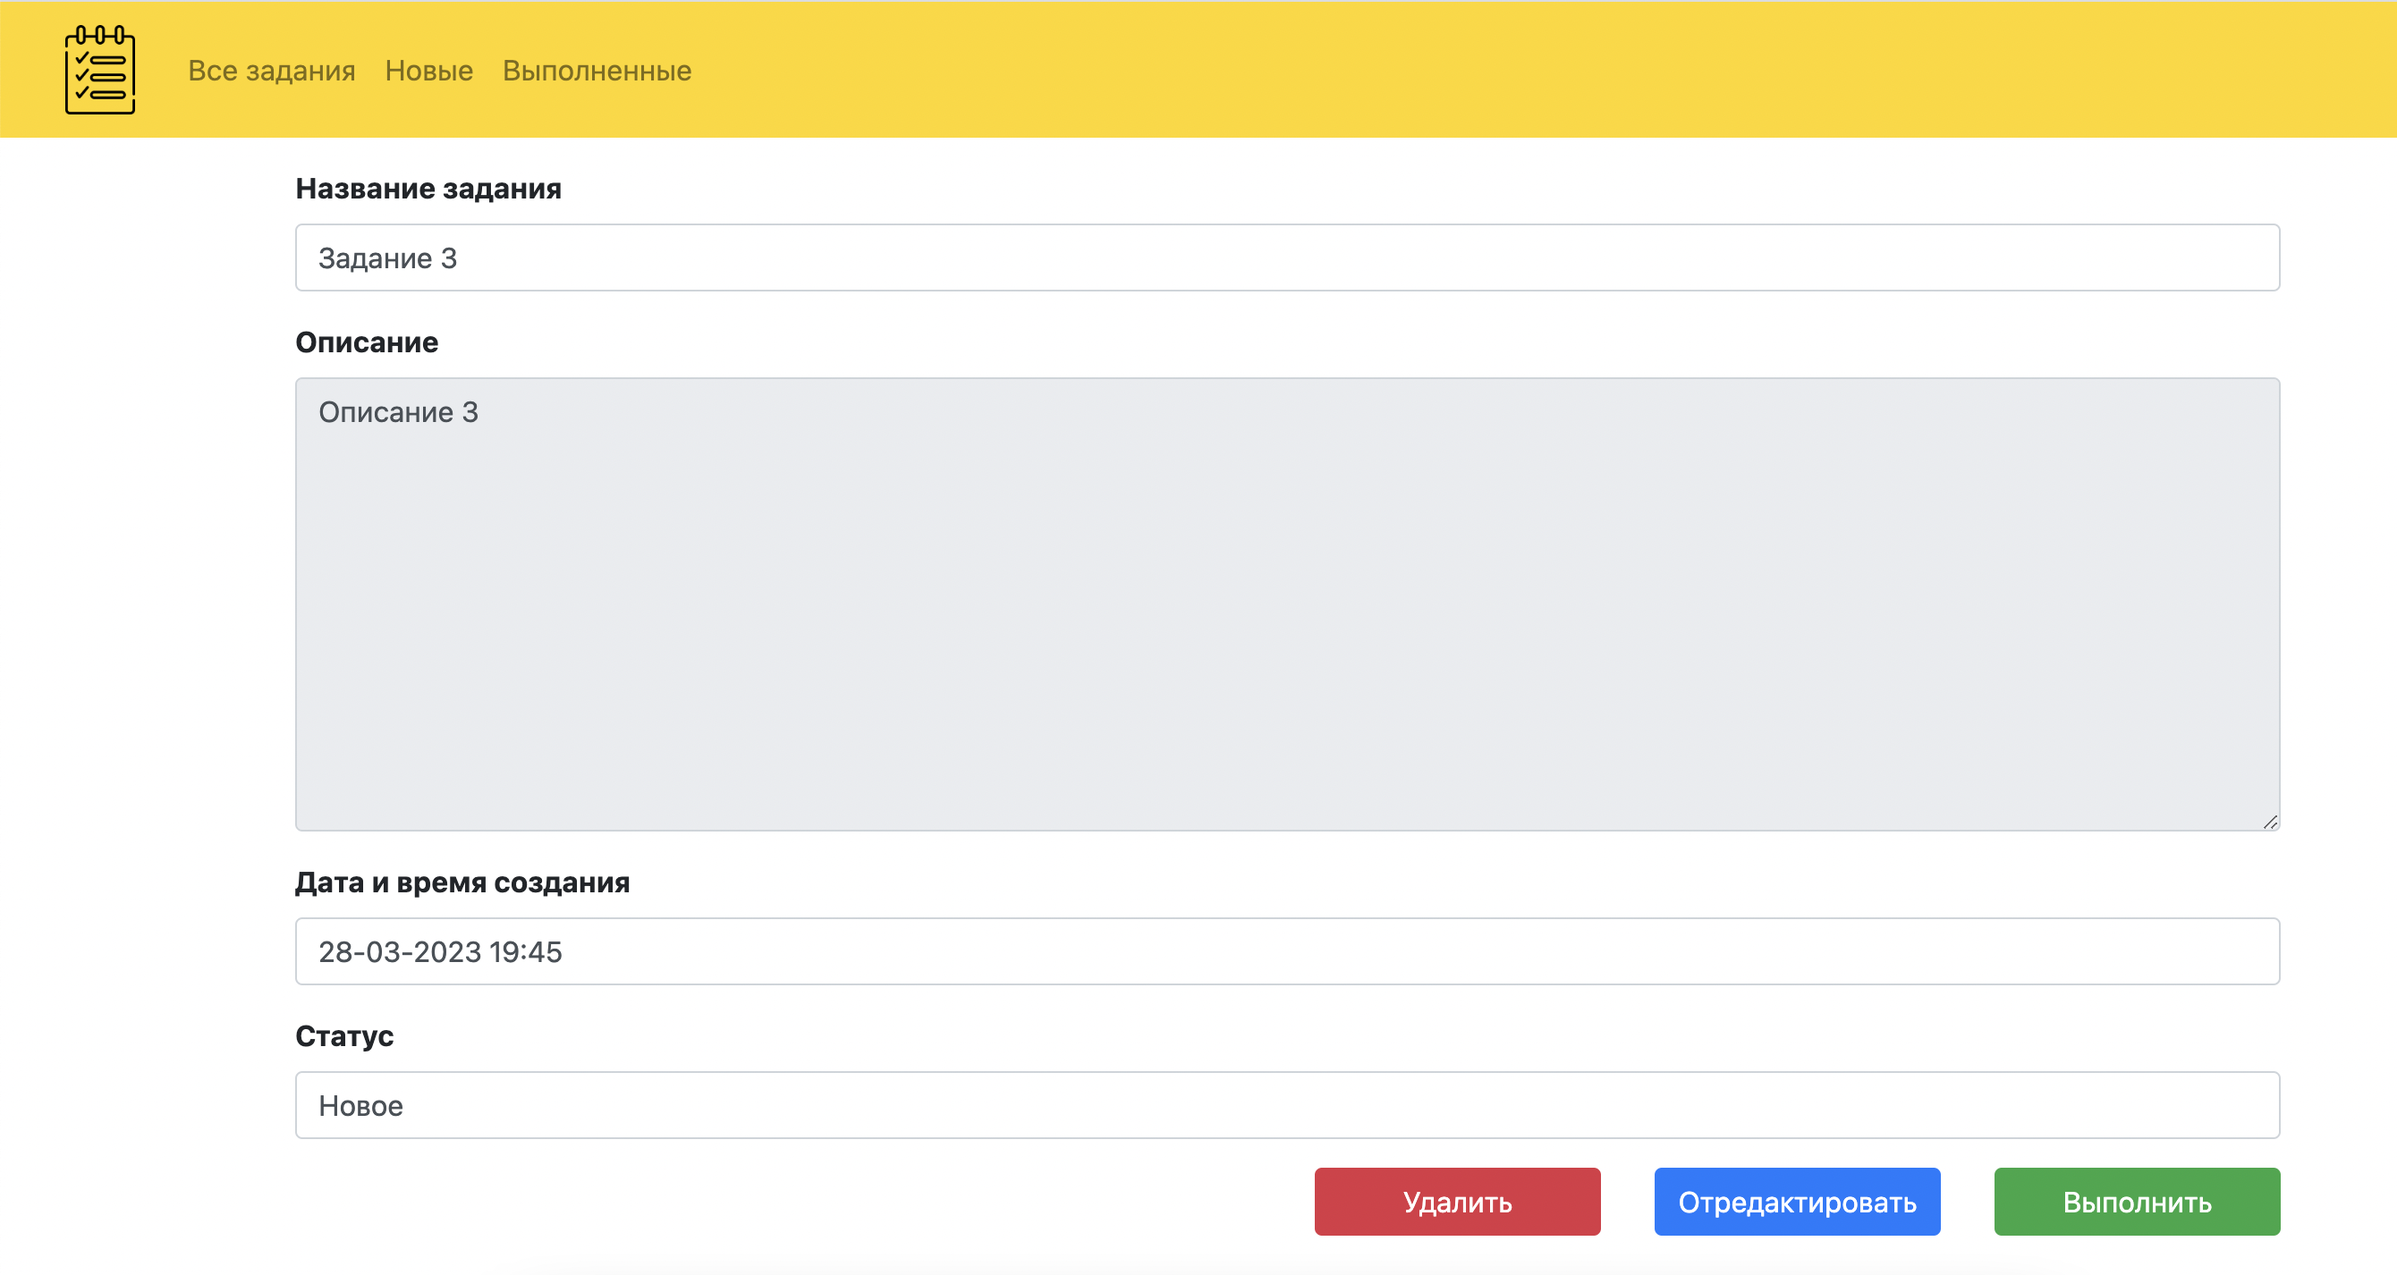
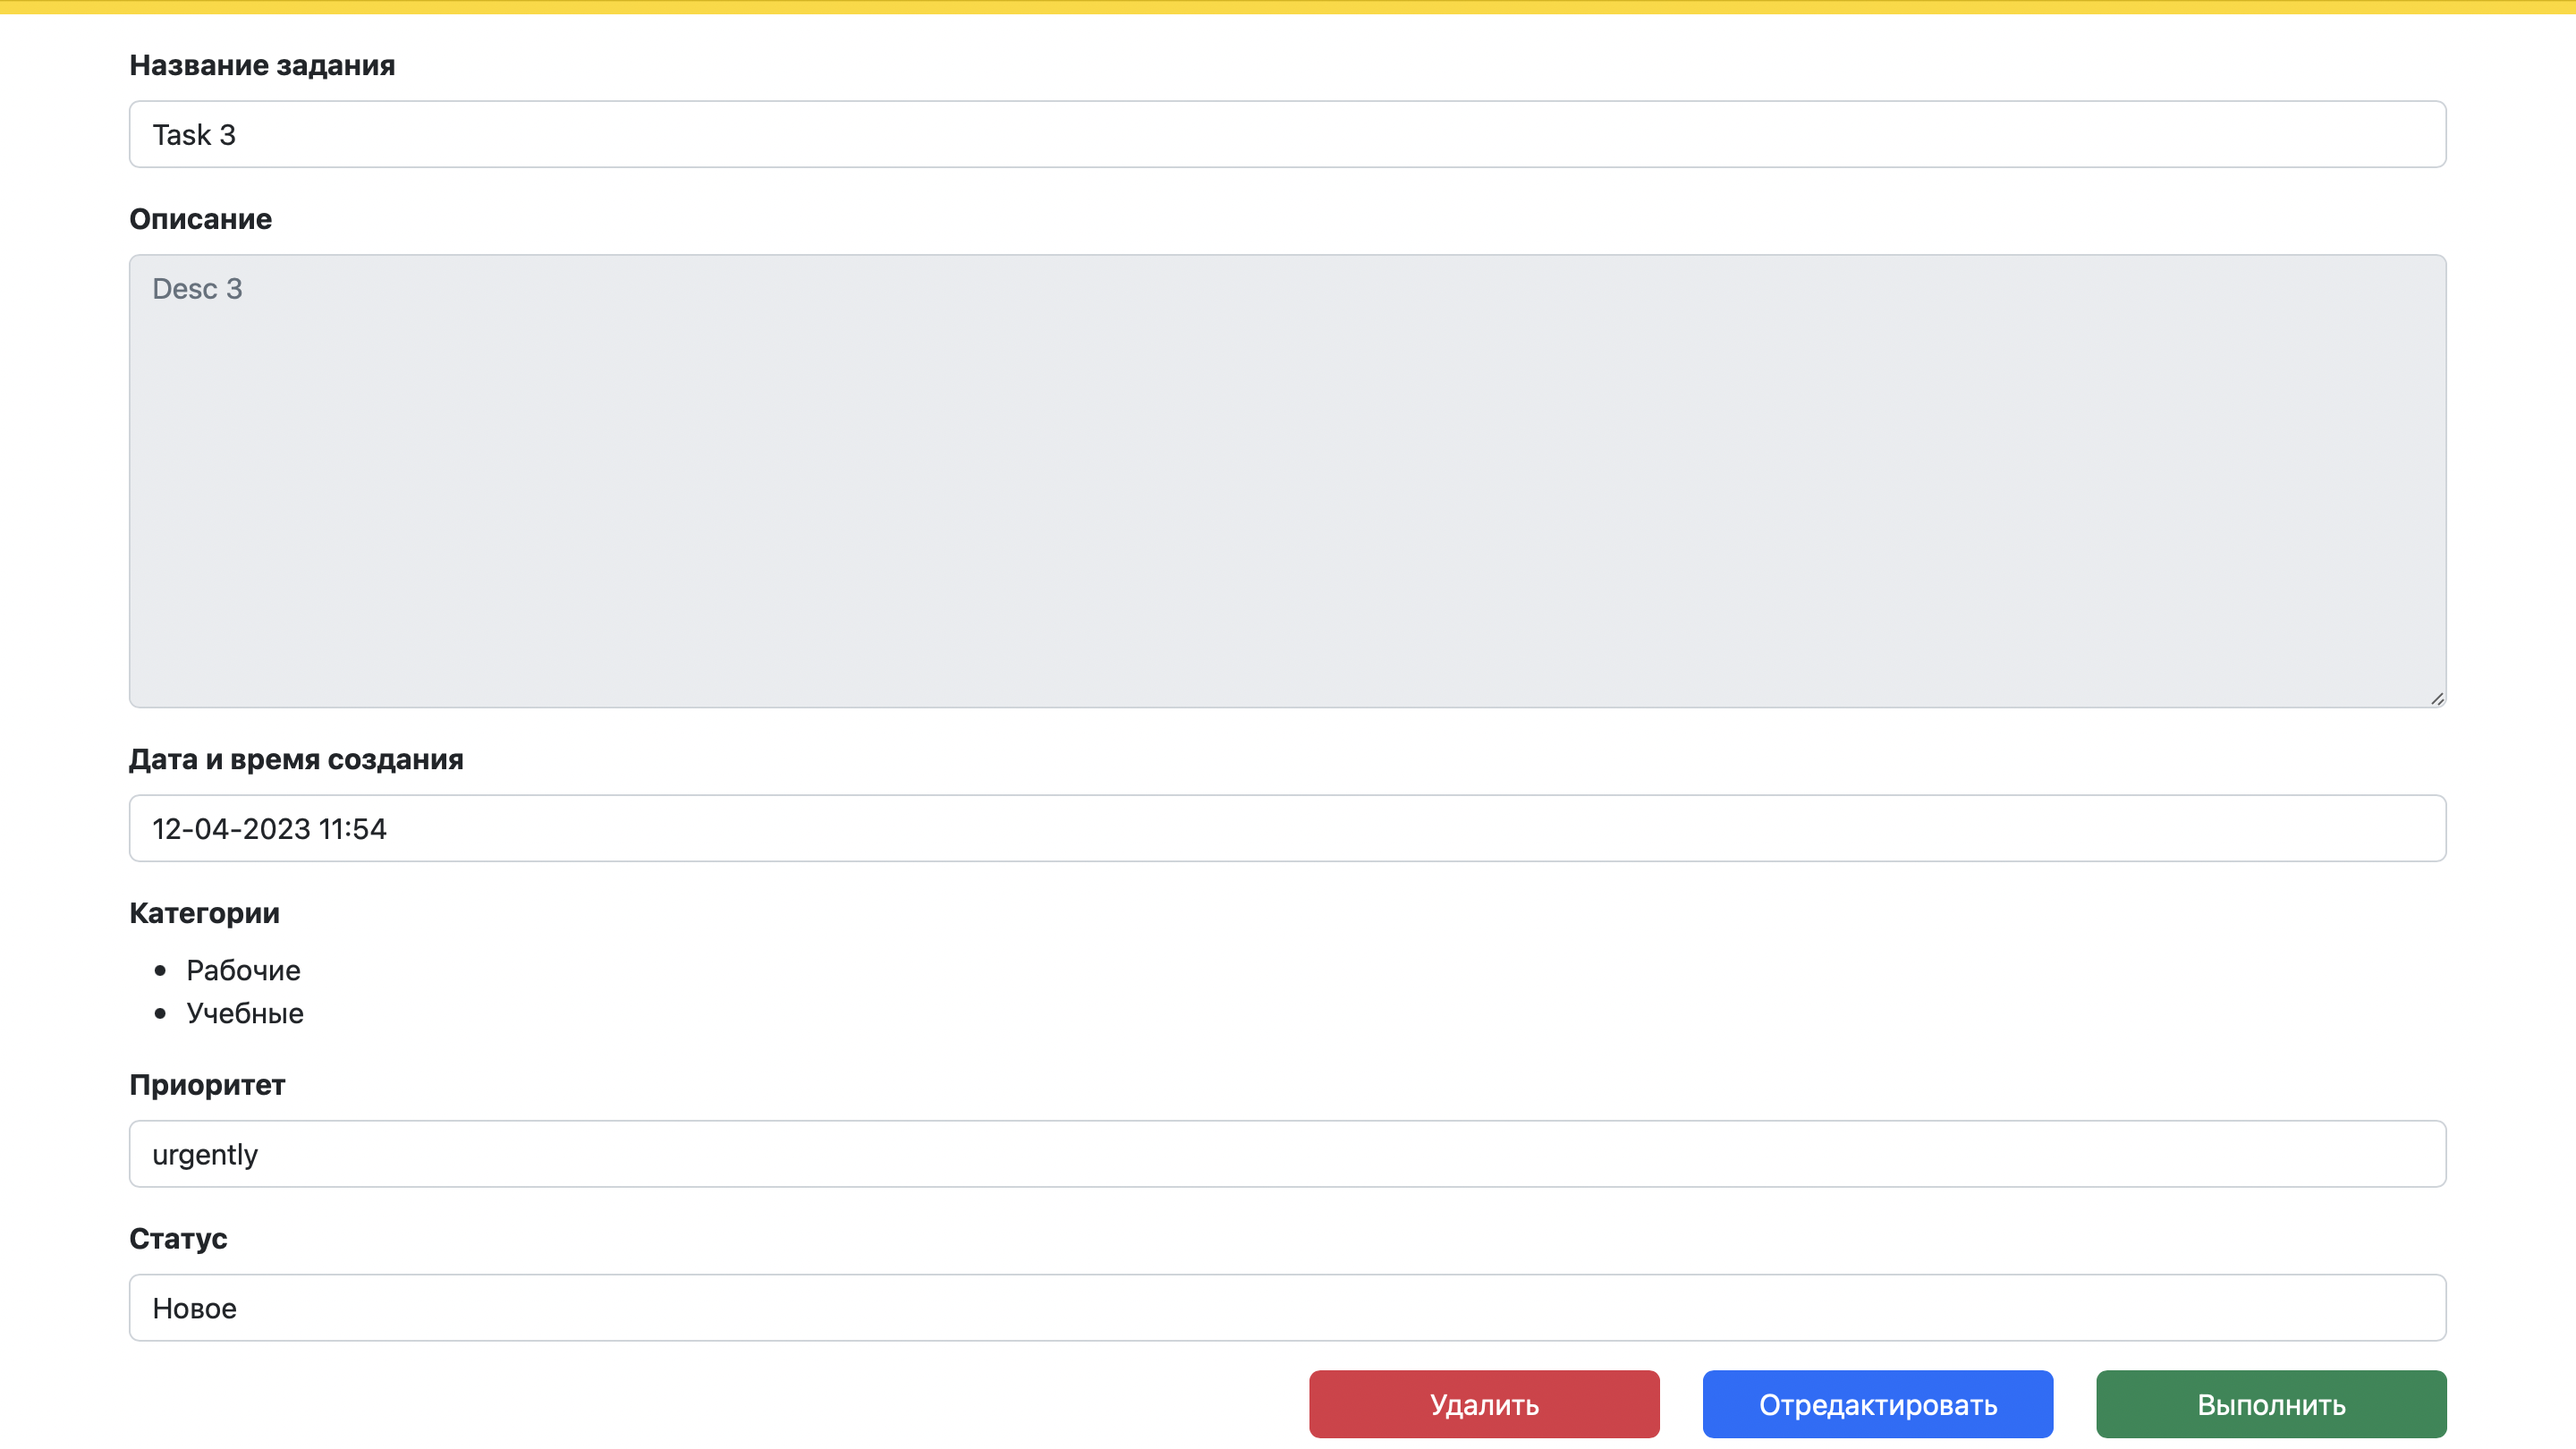
5. Date [#331992]

diff --git a/src/main/resources/templates/users/register.html b/src/main/resources/templates/users/register.html
@@ -54,6 +54,12 @@
                 <label for="password" class="form-label"><b>Пароль</b></label>
                 <input type="password" class="form-control" id="password" name="password" required>
             </div>
+            <div class="mb-3">
+                <label for="zoneId" class="form-label"><b>Часовой пояс</b></label>
+                <select id="zoneId" name="zoneId" required>
+                    <option th:each="zone : ${zones}" th:value="${zone.ID}" th:text="${zone.displayName}"></option>
+                </select>
+            </div>
             <div class="mb-3 row">
                 <div class="col-6"></div>
                 <div class="col-6">

diff --git a/src/main/java/ru/job4j/todo/controller/TaskController.java b/src/main/java/ru/job4j/todo/controller/TaskController.java
@@ -11,7 +11,9 @@ import ru.job4j.todo.service.CategoryService;
 import ru.job4j.todo.service.PriorityService;
 import ru.job4j.todo.service.TaskService;
 
+import java.time.ZoneId;
 import java.util.List;
+import java.util.TimeZone;
 
 @Controller
 @AllArgsConstructor
@@ -22,20 +24,26 @@ public class TaskController {
     private final CategoryService categoryService;
 
     @GetMapping({"/", "/index"})
-    public String getAll(Model model) {
-        model.addAttribute("tasks", taskService.findAll());
+    public String getAll(Model model, @SessionAttribute User user) {
+        var tasks = taskService.findAll();
+        tasks.forEach(t -> setTimeZone(t, user));
+        model.addAttribute("tasks", tasks);
         return "tasks/list";
     }
 
     @GetMapping("/completed")
-    public String getCompleted(Model model) {
-        model.addAttribute("tasks", taskService.findAllByState(true));
+    public String getCompleted(Model model, @SessionAttribute User user) {
+        var completedTasks = taskService.findAllByState(true);
+        completedTasks.forEach(t -> setTimeZone(t, user));
+        model.addAttribute("tasks", completedTasks);
         return "tasks/list";
     }
 
     @GetMapping("/new")
-    public String getNew(Model model) {
-        model.addAttribute("tasks", taskService.findAllByState(false));
+    public String getNew(Model model, @SessionAttribute User user) {
+        var newTasks = taskService.findAllByState(false);
+        newTasks.forEach(t -> setTimeZone(t, user));
+        model.addAttribute("tasks", newTasks);
         return "tasks/list";
     }
 
@@ -64,12 +72,13 @@ public class TaskController {
     }
 
     @GetMapping("/{id}")
-    public String getById(Model model, @PathVariable int id) {
+    public String getById(Model model, @PathVariable int id, @SessionAttribute User user) {
         var taskOptional = taskService.findById(id);
         if (taskOptional.isEmpty()) {
             model.addAttribute("message", "Задание не найдено");
             return "errors/404";
         }
+        setTimeZone(taskOptional.get(), user);
         model.addAttribute("task", taskOptional.get());
         return "tasks/one";
     }
@@ -122,5 +131,15 @@ public class TaskController {
         }
         model.addAttribute("message", "Статус задания изменен на Выполнено");
         return "tasks/success";
+    }
+
+    private static void setTimeZone(Task task, User user) {
+        var defTz = TimeZone.getDefault().toZoneId();
+        var userTimeZone = ZoneId.of(user.getTimezone());
+        var dateTime = task.getCreated()
+                .atZone(defTz)
+                .withZoneSameInstant(userTimeZone)
+                .toLocalDateTime();
+        task.setCreated(dateTime);
     }
 }

diff --git a/src/main/java/ru/job4j/todo/controller/UserController.java b/src/main/java/ru/job4j/todo/controller/UserController.java
@@ -3,15 +3,14 @@ package ru.job4j.todo.controller;
 import lombok.AllArgsConstructor;
 import org.springframework.stereotype.Controller;
 import org.springframework.ui.Model;
-import org.springframework.web.bind.annotation.GetMapping;
-import org.springframework.web.bind.annotation.ModelAttribute;
-import org.springframework.web.bind.annotation.PostMapping;
-import org.springframework.web.bind.annotation.RequestMapping;
+import org.springframework.web.bind.annotation.*;
 import ru.job4j.todo.model.User;
 import ru.job4j.todo.service.UserService;
 
 import javax.servlet.http.HttpServletRequest;
 import javax.servlet.http.HttpSession;
+import java.util.ArrayList;
+import java.util.TimeZone;
 
 @Controller
 @AllArgsConstructor
@@ -20,12 +19,19 @@ public class UserController {
     private final UserService userService;
 
     @GetMapping("/register")
-    public String getRegistrationPage() {
+    public String getRegistrationPage(Model model) {
+        var zones = new ArrayList<TimeZone>();
+        for (String timeId : TimeZone.getAvailableIDs()) {
+            zones.add(TimeZone.getTimeZone(timeId));
+        }
+        model.addAttribute("zones", zones);
         return "users/register";
     }
 
     @PostMapping("/register")
-    public String register(@ModelAttribute User user, Model model) {
+    public String register(@ModelAttribute User user,
+                           @RequestParam("zoneId") TimeZone timeZone, Model model) {
+        user.setTimezone(timeZone.getID());
         var savedUser = userService.save(user);
         if (savedUser.isEmpty()) {
             model.addAttribute("message", "Пользователь с таким логином уже существует");

diff --git a/src/main/java/ru/job4j/todo/model/User.java b/src/main/java/ru/job4j/todo/model/User.java
@@ -16,4 +16,6 @@ public class User {
     @EqualsAndHashCode.Include
     private String login;
     private String password;
+    @Column(name = "user_zone")
+    private String timezone;
 }

diff --git a/README.md b/README.md
@@ -38,6 +38,12 @@ mvn spring-boot:run -Pproduction
 
 ## Взаимодействие с приложением
 
+#### Форма регистрации нового пользователя. Есть возможность указать часовой пояс для отображения времени с учетом указанного пояса.
+![](images/5.png)
+
+#### Форма авторизации. Только авторизованный пользователь может взаимодействовать с приложением.
+![](images/6.png)
+
 #### Главная страница со списком заданий. Можно отфильтровать список по состоянию. Есть кнопка добавить новое задание.
 ![](images/1.png)
 
